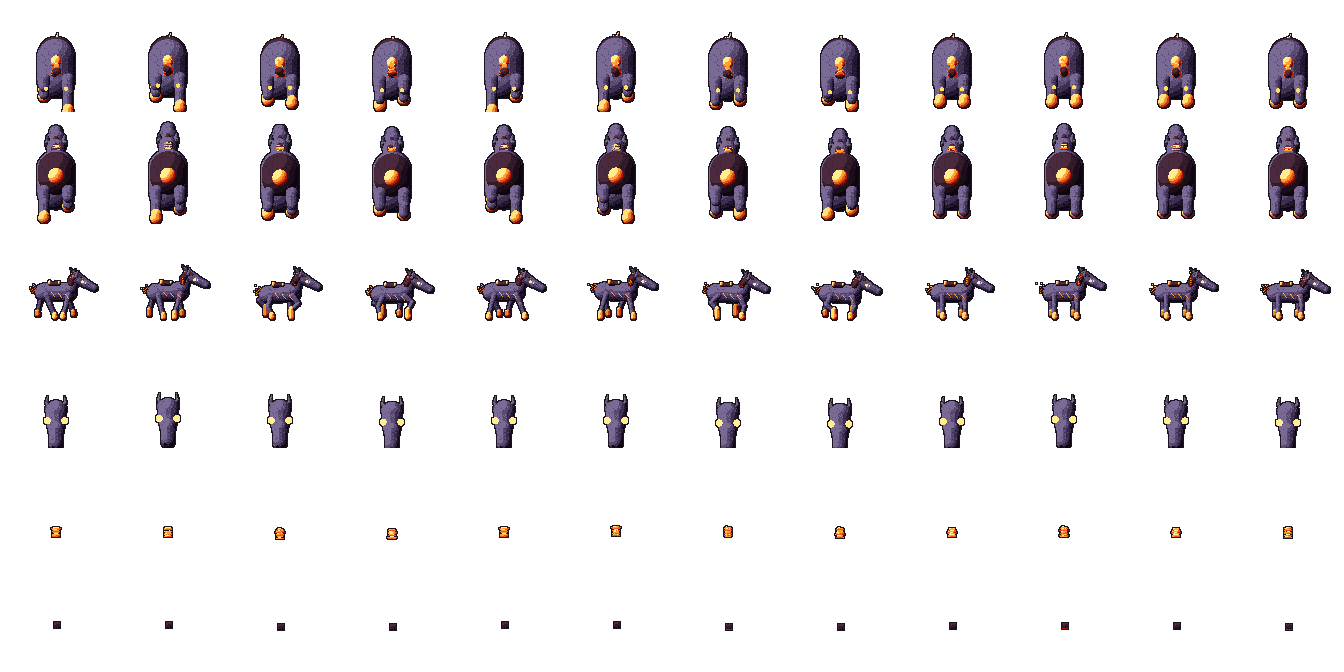
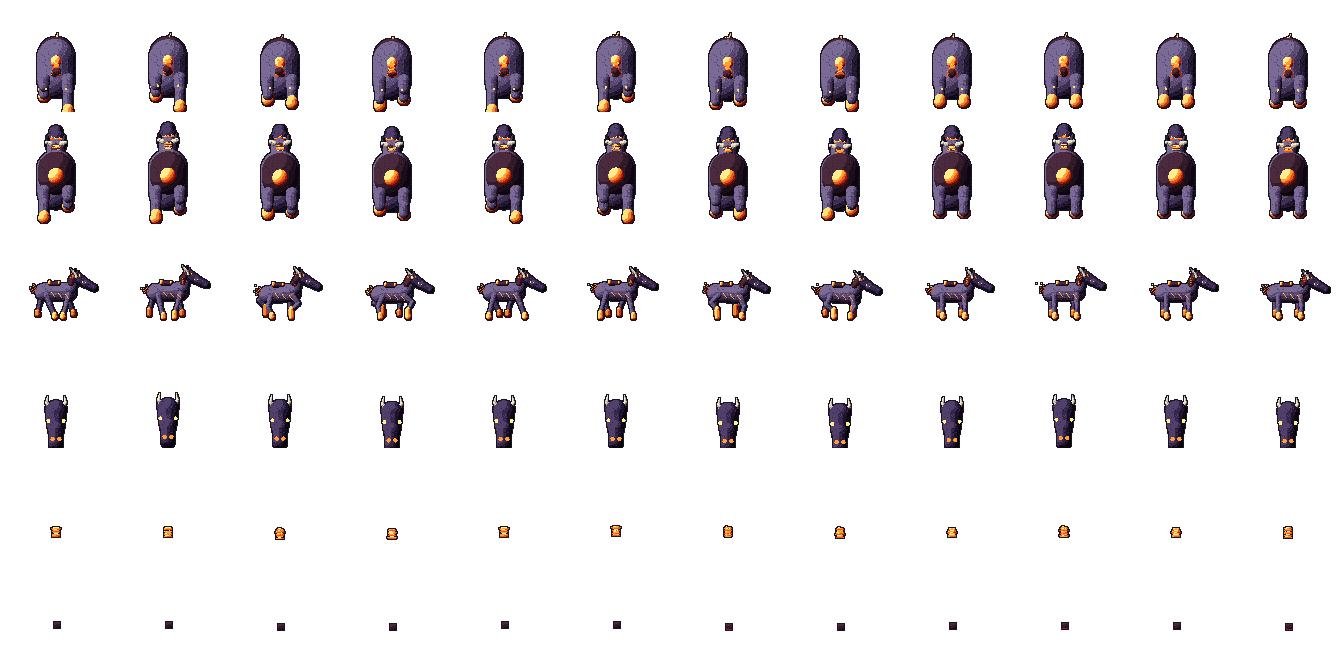
Маунты, остаток 118 (задача 121): трофеи подключены — рейд выдаёт raidMountTrophies при победе, арена — arenaMountRewards по сумме побед за сезон (tests/mount-awards.ts: без дублей, фракция, пороги); кошмарный скакун спереди читается лучше — тёмная голова отдельно от корпуса, светлые рога, горящие н

diff --git a/tools/gen/mounts-horses.ts b/tools/gen/mounts-horses.ts
@@ -9,7 +9,7 @@ const hx = (c: string): RGBA => ramp(c)[0];
 
 interface HorseLook {
   body: Ramp; mane: Ramp; belly?: Ramp; eye?: RGBA; blaze?: boolean; sock?: Ramp;
-  chanfron?: Ramp; plume?: Ramp; ears?: boolean; heavy?: boolean; skullHead?: boolean;
+  eyeSize?: number; chanfron?: Ramp; plume?: Ramp; ears?: boolean; heavy?: boolean; skullHead?: boolean;
 }
 
 function horseHead(r: Rig, c: Ctx, L: HorseLook, sc = 1) {
@@ -26,7 +26,7 @@ function horseHead(r: Rig, c: Ctx, L: HorseLook, sc = 1) {
     r.dot(V(0, m[1] - 4, m[2] + 3.6), 1.3, P.gold[3], { front, views: VIEW_DOWN | VIEW_SIDE, bias: 3 });
   }
   if (L.ears !== false) r.pair((s) => r.cap(V(s * 2.3 * sc, N[1] + 0.2, N[2] + 3 * sc), V(s * 2.5 * sc, N[1] + 1.6, N[2] + 7 * sc), 1.4 * sc, 0.6 * sc, L.body, { wa: 1.1 * sc, wb: 0.5, front, tone: s < 0 ? -1 : 0 }));
-  eyes(r, V(0, b[1] - 1.5 * sc, b[2] + 1.6 * sc), 3.0 * sc, L.eye ?? hx("#0a0608"), 0.9);
+  eyes(r, V(0, b[1] - 1.5 * sc, b[2] + 1.6 * sc), 3.0 * sc, L.eye ?? hx("#0a0608"), L.eyeSize ?? 0.9);
   r.pair((s) => r.dot(V(s * 1.1, m[1] + 2.3 * sc, m[2] + 0.3), 0.6, hx("#0a0608"), { views: VIEW_DOWN, front, bias: 3 }));
   if (L.plume) flow(r, V(0, N[1] + 0.5, N[2] + 5 * sc), V(0, -0.35, 0.8), 5, 2.4, 1.8, 0.7, L.plume, c, 1.2, 0.3, { front: VIEW_DOWN });
   // грива вдоль гребня шеи и чёлка
@@ -173,16 +173,20 @@ export const SKEL_HORSE = (ph: number, run: boolean): Built =>
   }, ph, run);
 
 const NIGHT = ramp("#0e0814", "#221830", "#3c2e50", "#5a4a72", "#7a6a96");
+const NIGHT_HEAD = ramp("#05030a", "#0e0814", "#1c1228", "#34264a", "#52406c");
 const HELLFIRE = ramp("#5a0c08", "#a81c0c", "#e8541a", "#ffa030", "#ffee90");
 export const NIGHTMARE = (ph: number, run: boolean): Built =>
   quad(horseQ({ body: NIGHT, mane: HELLFIRE, eye: hx("#ffd040"), heavy: true, ears: true, chanfron: undefined }, {
     legR: [2.9, 2.0], stride: 8, lift: 6,
     hoof: ramp("#5a0c08", "#c23a12", "#f08a2c", "#ffe07a"),
     head: (r, c) => {
-      horseHead(r, c, { body: NIGHT, mane: ramp("#1a0a10", "#2a1018", "#44202a", "#5c2c38"), eye: hx("#ffe060") }, 1.3);
+      horseHead(r, c, { body: NIGHT_HEAD, mane: ramp("#1a0a10", "#2a1018", "#44202a", "#5c2c38"), eye: hx("#ffe060"), eyeSize: 0.5 }, 1.3);
       // рога и горящая грива
-      r.pair((s) => r.chain([V(s * 2.2, c.N[1] + 0.6, c.N[2] + 3.4), V(s * 3.6, c.N[1] - 1.2, c.N[2] + 7), V(s * 3.2, c.N[1] - 3.4, c.N[2] + 10.5)], 1.3, 0.4, ramp("#120c12", "#2a2028", "#4c4048", "#7a6e76"), { front: VIEW_DOWN }));
-      r.pair((s) => r.dot(V(s * 3.4, c.N[1] + 6.5, c.N[2] - 1.4), 1.5, HELLFIRE[4], { views: s > 0 ? VIEW_SIDE | VIEW_DOWN : VIEW_DOWN, front: VIEW_DOWN, bias: 5 }));
+      r.pair((s) => r.chain([V(s * 2.2, c.N[1] + 0.6, c.N[2] + 3.4), V(s * 3.6, c.N[1] - 1.2, c.N[2] + 7), V(s * 3.2, c.N[1] - 3.4, c.N[2] + 10.5)], 1.3, 0.4, ramp("#4a4038", "#8a7e70", "#c8bca6", "#f2e8d0"), { front: VIEW_DOWN, bias: 2 }));
+      // язык пламени на лбу между рогами и горящие ноздри: в виде спереди голова отделяется от корпуса
+      for (let i = -1; i <= 1; i++) flame(r, V(i * 1.6, c.N[1] + 4.6, c.N[2] + 2.4), 6 - Math.abs(i) * 1.6, 1.3, c.tt, i + 20, HELLFIRE, { front: VIEW_DOWN, lean: V(0, -0.2, 0.9) });
+      r.pair((s) => r.dot(V(s * 1.3, c.N[1] + 16.2, c.N[2] - 7.6), 0.9, HELLFIRE[3], { views: VIEW_DOWN, front: VIEW_DOWN, bias: 5 }));
+      r.pair((s) => r.dot(V(s * 2.9, c.N[1] + 6.5, c.N[2] - 1.4), 0.85, HELLFIRE[4], { views: s > 0 ? VIEW_SIDE | VIEW_DOWN : VIEW_DOWN, front: VIEW_DOWN, bias: 5 }));
       const nb = V(0, c.S[1] + 3, c.S[2] + 4);
       for (let i = 0; i < 8; i++) { const t = i / 7; flame(r, V(0, lerp(c.N[1] - 1, nb[1], t), lerp(c.N[2] + 2.5, nb[2] + 3, t)), 8 + (i % 3) * 1.6, 2, c.tt, i, HELLFIRE, { lean: V(0, -0.7, 0.7) }); }
     },

diff --git a/tests/mount-awards.ts b/tests/mount-awards.ts
@@ -1,0 +1,33 @@
+/** Офлайн: трофеи маунтов — рейд (raidMountTrophies), арена (arenaMountRewards), без дублей и с учётом фракции. */
+import assert from "node:assert/strict";
+import { arenaMountRewards, raidMountTrophies } from "../server/src/game/mountDrops";
+
+const mk = (faction: string) => {
+  const toasts: string[] = [];
+  return { faction, save: {} as { mounts?: string[]; mount?: string }, selfDirty: false, send: (_: string, d: { text: string }) => toasts.push(d.text), toasts } as never as {
+    faction: string; save: { mounts?: string[]; mount?: string }; toasts: string[];
+  };
+};
+const rnd = Math.random;
+Math.random = () => 0;
+const a = mk("solgard");
+raidMountTrophies(a as never, "chaos_knight");
+assert.deepEqual(a.save.mounts?.sort(), ["nightmare", "phoenix"], "рейд: оба трофея, без фракции");
+assert.equal(a.save.mount, a.save.mounts?.[0] === "phoenix" ? "nightmare" : a.save.mount);
+raidMountTrophies(a as never, "chaos_knight");
+assert.equal(a.save.mounts?.length, 2, "без дублей");
+raidMountTrophies(mk("umbrath") as never, "other_raid");
+Math.random = () => 0.99;
+const b = mk("solgard");
+raidMountTrophies(b as never, "chaos_knight");
+assert.equal(b.save.mounts, undefined, "шанс не выпал");
+Math.random = rnd;
+arenaMountRewards(a as never, 99);
+assert.ok(!a.save.mounts?.includes("griffin"), "99 побед — грифона нет");
+arenaMountRewards(a as never, 100);
+assert.ok(a.save.mounts?.includes("griffin"), "100 побед — грифон (Сольгард)");
+assert.ok(!a.save.mounts?.includes("wyvern"), "виверна — только Умбрат");
+const u = mk("umbrath");
+arenaMountRewards(u as never, 60);
+assert.deepEqual(u.save.mounts, ["wyvern"]);
+console.log("mount-awards: OK");

diff --git a/server/src/arena/rewards.ts b/server/src/arena/rewards.ts
@@ -3,6 +3,7 @@ import { MODE_NAMES, rankById, RANKS, type ArenaMode } from "../../../shared/are
 import { makeUnique } from "../../../shared/items";
 import { addItem } from "../game/inventory";
 import type { Player } from "../game/Player";
+import { arenaMountRewards } from "../game/mountDrops";
 import { services } from "./registry";
 
 /** Выдаёт все ожидающие награды игроку в мире. Медальон ждёт, пока в сумке не появится место. */
@@ -26,6 +27,9 @@ export function deliverArenaRewards(p: Player) {
       continue;
     }
     store.markDelivered(r.id);
+    // маунты арены: число побед за сезон по всем режимам
+    const key = p.name.toLowerCase();
+    arenaMountRewards(p, (Object.keys(MODE_NAMES) as ArenaMode[]).reduce((n, m) => n + store.rating(key, m, r.season).wins, 0));
     p.send("toast", { text: `Награда за сезон ${r.season} (${MODE_NAMES[r.mode as ArenaMode]}, ${rank.name}): титул, рамка и медальон`, kind: "loot" });
   }
   p.applyCosmetics();

diff --git a/server/src/raid/rewards.ts b/server/src/raid/rewards.ts
@@ -10,6 +10,7 @@ import { RAID, RAID_BOSS, RAID_CFG } from "../../../shared/raid";
 import type { LootBag } from "../../../shared/protocol";
 import type { PlayerSave } from "../db";
 import { addItem } from "../game/inventory";
+import { raidMountTrophies } from "../game/mountDrops";
 import type { Player } from "../game/Player";
 import { gainXp } from "../game/rewards";
 import type { World } from "../game/World";
@@ -119,6 +120,7 @@ export function grantRaidRewards(d: RaidDirector, now = Date.now()): Map<string,
         got = true;
         w.system(RAID.chat.trophy.replace("{name}", p.name).replace("{item}", l.name));
       }
+      raidMountTrophies(p, RAID_BOSS.id);
       rs.pity = got ? 0 : Math.min(ch.pityMax, rs.pity + ch.pityStep);
       dropBag(w, p, boss.x, boss.y, items, rand);
       p.send("toast", { text: `${RAID_BOSS.name} повержен! Заберите добычу у тела.`, kind: "loot" });

diff --git a/tools/gen/vendor-ui.ts b/tools/gen/vendor-ui.ts
@@ -422,7 +422,7 @@ export function buildVendorUi() {
   // это уже «×2» к сетке пака) и @2x; разделитель — растягиваемая линия и украшение справа. Размеры — токены --frame-w, --frame-slice, --div-h, --div-cap.
   const fb = frames[11], db = dividers[0];
   fs.mkdirSync(GAME_UI, { recursive: true });
-  for (const f of fs.readdirSync(GAME_UI)) if (f.endsWith(".png")) fs.unlinkSync(path.join(GAME_UI, f));
+  for (const f of fs.readdirSync(GAME_UI)) if (/^(frame|divider)-.*\.png$/.test(f)) fs.unlinkSync(path.join(GAME_UI, f));
   writePng(fb.line, path.join(GAME_UI, "frame-b.png"));
   writePng(scaleNN(fb.line, 2), path.join(GAME_UI, "frame-b@2x.png"));
   writePng(lineOf(db.plain, db.cap), path.join(GAME_UI, "divider-b-line.png"));
